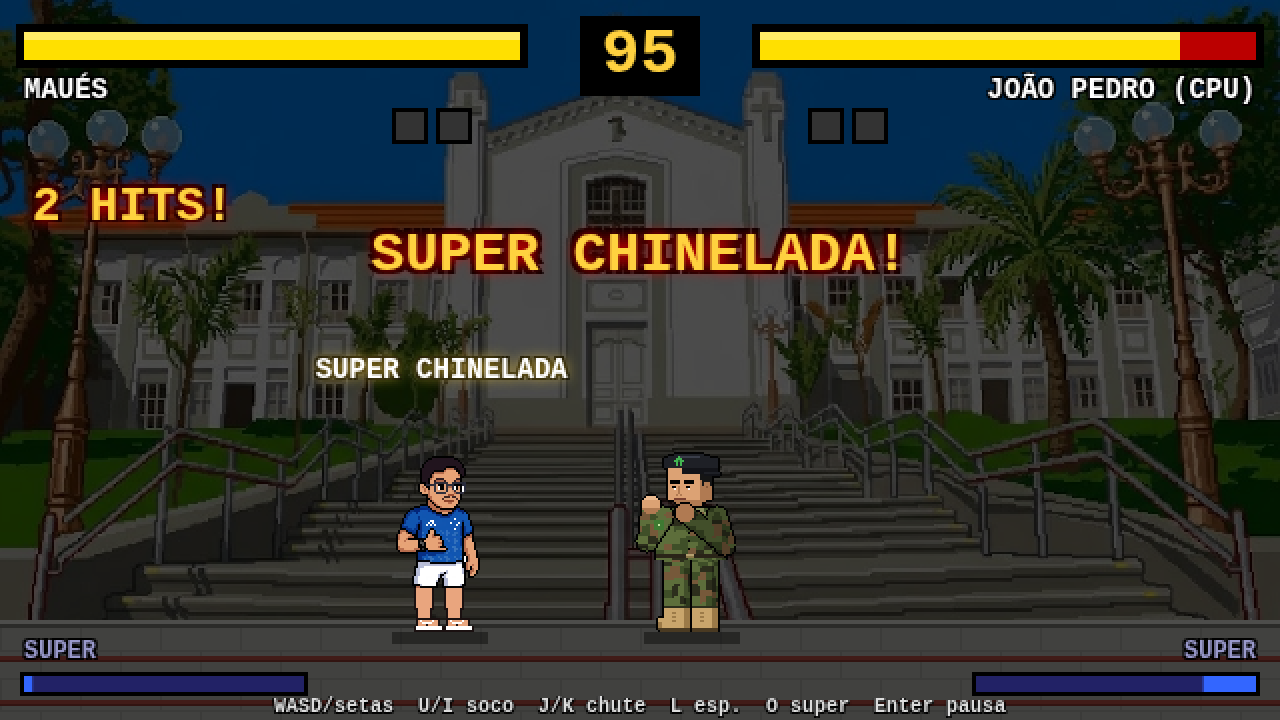
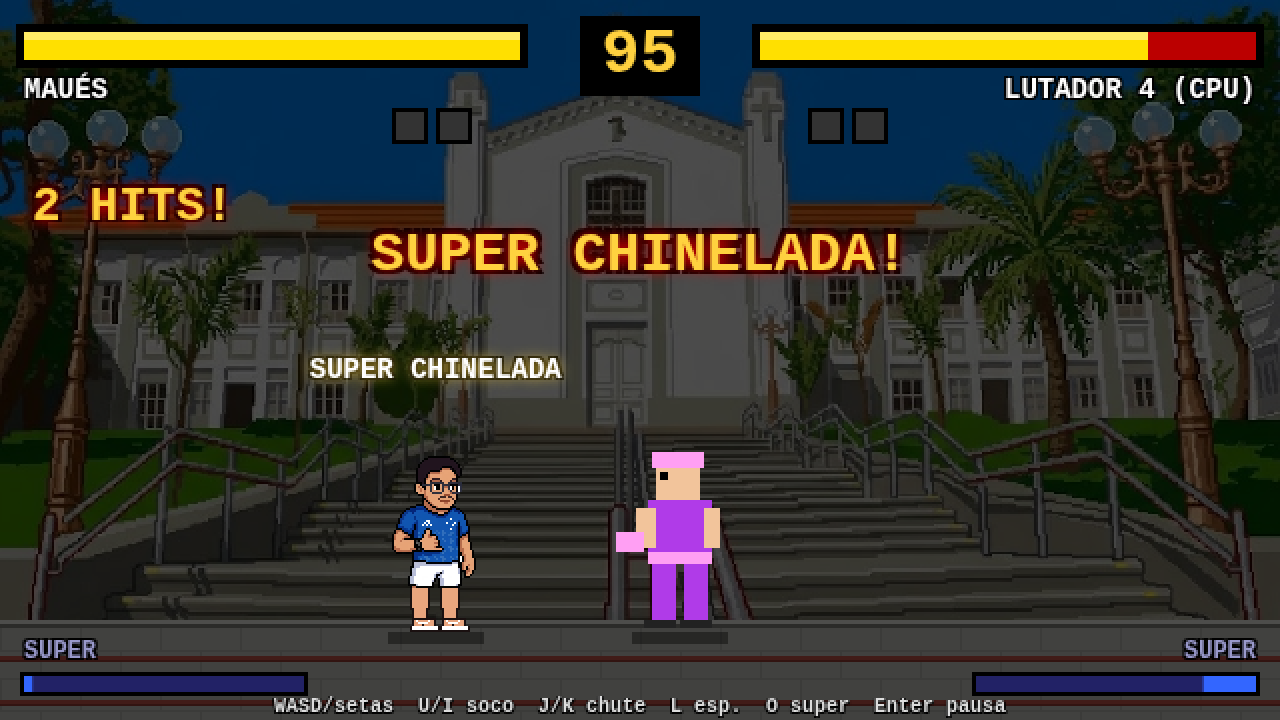
Publish build 202610211156 with cache-busted scripts.
Replace the game files from the latest zip, add the João Pedro fight and opponent-select screenshots, and stamp script URLs with v=202610211156. .nojekyll stays in place.

diff --git a/js/game.js b/js/game.js
@@ -39,7 +39,7 @@ function txt(s, x, y, size = 8, col = "#fff", align = "center", glow, outline = 
 }
 function bigTxt(s, y, size, c1, c2) { const fl = game.frame % 8 < 4; txt(s, W / 2, y, size, fl ? c1 : c2, "center", c2, 2); }
 // ---------- cenário ----------
-const IMG = {}; const img = src => IMG[src] || (IMG[src] = Object.assign(new Image(), { src }));
+const IMG = {}; const img = src => IMG[src] || (IMG[src] = Object.assign(new Image(), { src: src + "?v=" + (window.BUILD || 1) }));
 STAGES.forEach(s => { if (s.image) img(s.image); if (s.thumb) img(s.thumb); });
 function drawStage(t) {
   const st = game.stage; if (st && st.image) { const im = img(st.image); if (im.complete && im.naturalWidth) { g.drawImage(im, 0, 0, W, H); return; } }
@@ -49,7 +49,7 @@ function drawStage(t) {
 const PORTRAITS = CHARACTERS.map(c => new Fighter(c, 0, 1, null));
 function portrait(i, x, y, sc = 1, pose = "idle", flip = 1, dark) {
   const f = PORTRAITS[i]; f.x = 0; f.y = 0; f.facing = flip; f.state = "idle"; f.anim = game.frame; f.flash = 0; f.input = {}; f.inFight = false; const op = f.pose; f.pose = () => pose;
-  g.save(); g.translate(x, y); g.scale(sc, sc); if (dark) g.filter = "brightness(0)"; f.draw(g); g.restore(); f.pose = op;
+  g.save(); try { g.translate(x, y); g.scale(sc, sc); if (dark) g.filter = "brightness(0)"; f.draw(g); } catch (e) { console.error("retrato", e); } finally { g.restore(); f.pose = op; }
 }
 function drawCommands(x, y, lh = 8, size = 6, cols = 2) {
   const per = Math.ceil(COMMANDS.length / cols);
@@ -72,27 +72,31 @@ function title() {
     if (Math.floor(t / 15) % 2) txt("APERTE START", W / 2, 124, 12, "#ffd23f");
     if (P("ok")) { game.coin = 2; game.menuSel = 0; Audio8.menu(); }
   } else {
-    const items = ["ARCADE", "VERSUS (2 JOGADORES)", "DIFICULDADE: ◀ " + DIFFS[game.diff].n + " ▶", "COMANDOS"];
-    items.forEach((s, i) => txt((i === game.menuSel ? "▶ " : "  ") + s, W / 2, 114 + i * 12, 8, i === game.menuSel ? "#ffd23f" : "#bbb"));
-    if (P("up")) { game.menuSel = (game.menuSel + 3) % 4; Audio8.menu(); }
-    if (P("down")) { game.menuSel = (game.menuSel + 1) % 4; Audio8.menu(); }
-    if (game.menuSel === 2 && (P("left") || P("right"))) { game.diff = (game.diff + (P("left") ? 2 : 1)) % 3; Audio8.menu(); }
+    const items = ["ARCADE", "LUTA LIVRE (VS CPU)", "VERSUS (2 JOGADORES)", "DIFICULDADE: ◀ " + DIFFS[game.diff].n + " ▶", "COMANDOS"];
+    items.forEach((s, i) => txt((i === game.menuSel ? "▶ " : "  ") + s, W / 2, 110 + i * 11, 8, i === game.menuSel ? "#ffd23f" : "#bbb"));
+    if (P("up")) { game.menuSel = (game.menuSel + 4) % 5; Audio8.menu(); }
+    if (P("down")) { game.menuSel = (game.menuSel + 1) % 5; Audio8.menu(); }
+    if (game.menuSel === 3 && (P("left") || P("right"))) { game.diff = (game.diff + (P("left") ? 2 : 1)) % 3; Audio8.menu(); }
     if (P("ok")) { Audio8.menu();
-      if (game.menuSel === 0 || game.menuSel === 1) { game.mode = game.menuSel ? "versus" : "arcade"; game.ready = [false, false]; game.screen = "select"; if (game.sel[0] >= CHARACTERS.length) game.sel[0] = 0; }
-      if (game.menuSel === 2) game.diff = (game.diff + 1) % 3;
-      if (game.menuSel === 3) game.showCmds = true; }
+      if (game.menuSel <= 2) { game.mode = ["arcade", "free", "versus"][game.menuSel]; game.ready = [false, false]; game.ladderPos = 0; game.screen = "select"; game.sel = [0, 1]; }
+      if (game.menuSel === 3) game.diff = (game.diff + 1) % 3;
+      if (game.menuSel === 4) game.showCmds = true; }
     if (P("back")) game.coin = 1;
   }
   txt("CRÉDITO " + Math.min(1, game.coin), W - 6, H - 6, 7, "#aaa", "right");
   txt("M = som", 6, H - 6, 7, "#666", "left");
 }
 // ---------- SELEÇÃO ----------
-function selectable(i) { return game.mode === "versus" || !CHARACTERS[i].boss; }
+const RANDOM = CHARACTERS.length; // célula "ALEATÓRIO" (Luta Livre)
+function selectable(i, pi = 0) { if (i === RANDOM) return game.mode === "free" && pi === 1; return game.mode !== "arcade" || !CHARACTERS[i].boss; }
 function select() {
   g.fillStyle = "#0c0c24"; g.fillRect(0, 0, W, H);
   for (let y = 0; y < H; y += 4) { g.fillStyle = "#11113a"; g.fillRect(0, y, W, 1); }
-  txt("ESCOLHA SEU LUTADOR", W / 2, 9, 10, "#ffd23f", "center", "#f80");
-  const n = CHARACTERS.length, cw = 52, gap = 6, x0 = (W - (n * cw + (n - 1) * gap)) / 2, y0 = 18, ch = 56;
+  const free = game.mode === "free", cpuPick = free && game.ready[0];
+  txt(cpuPick ? "ESCOLHA O ADVERSÁRIO" : "ESCOLHA SEU LUTADOR", W / 2, 9, 10, cpuPick ? "#3b9bff" : "#ffd23f", "center", "#f80");
+  const n = CHARACTERS.length + (free ? 1 : 0), gap = 6, cw = Math.min(52, Math.floor((W - 12 - (n - 1) * gap) / n)), x0 = (W - (n * cw + (n - 1) * gap)) / 2, y0 = 18, ch = 56;
+  if (free) { const x = x0 + RANDOM * (cw + gap); g.fillStyle = "#000"; g.fillRect(x, y0, cw, ch); g.fillStyle = "#333a"; g.fillRect(x + 1, y0 + 1, cw - 2, ch - 2);
+    txt("?", x + cw / 2, y0 + ch / 2, 24, game.frame % 20 < 10 ? "#ffd23f" : "#fff"); txt("ALEATÓRIO", x + cw / 2, y0 + ch + 6, 6, cpuPick ? "#fff" : "#666"); }
   CHARACTERS.forEach((c, i) => {
     const x = x0 + i * (cw + gap), lock = !selectable(i);
     g.fillStyle = "#000"; g.fillRect(x, y0, cw, ch); g.fillStyle = c.color + "55"; g.fillRect(x + 1, y0 + 1, cw - 2, ch - 2);
@@ -102,27 +106,32 @@ function select() {
   });
   const cur = (pi, col) => { const x = x0 + game.sel[pi] * (cw + gap), blink = game.ready[pi] || game.frame % 16 < 11, both = game.mode === "versus" && game.sel[0] === game.sel[1];
     if (blink) { g.strokeStyle = col; g.lineWidth = 2; const o = both && pi ? 3 : 0; g.strokeRect(x - 1 + o, y0 - 1 + o, cw + 2 - o * 2, ch + 2 - o * 2); }
-    txt(pi ? "2P" : "1P", x + (pi ? cw - 8 : 8), y0 + 5, 7, col); };
-  cur(0, "#ff3b3b"); if (game.mode === "versus") cur(1, "#3b9bff");
-  const info = (pi, x, al) => { const c = CHARACTERS[game.sel[pi]];
+    txt(pi ? (game.mode === "free" ? "CPU" : "2P") : "1P", x + (pi ? cw - 9 : 8), y0 + 5, 7, col); };
+  cur(0, "#ff3b3b"); if (game.mode === "versus" || cpuPick) cur(1, "#3b9bff");
+  const info = (pi, x, al) => { if (game.sel[pi] === RANDOM) { txt("ALEATÓRIO", x, 92, 9, "#3b9bff", al); txt("sorteado na hora da luta", x, 104, 6, "#ccc", al); return; } const c = CHARACTERS[game.sel[pi]];
     txt(c.name, x, 92, 9, pi ? "#3b9bff" : "#ff3b3b", al);
     [["VEL", c.stats.speed], ["FOR", c.stats.power], ["VID", c.stats.health]].forEach(([l, v], j) => { const bx = al === "left" ? x + 20 : x - 70, by = 101 + j * 7;
       txt(l, al === "left" ? x : x - 74, by, 6, "#ccc", al === "left" ? "left" : "right"); g.fillStyle = "#333"; g.fillRect(bx, by - 2, 50, 4); g.fillStyle = c.accent; g.fillRect(bx, by - 2, v * 5, 4); });
     if (game.ready[pi]) txt("PRONTO!", x, 128, 7, "#7f7", al); };
   info(0, 10, "left");
-  if (game.mode === "versus") info(1, W - 10, "right");
+  if (game.mode === "versus" || cpuPick) info(1, W - 10, "right");
+  else if (free) { txt("LUTA LIVRE: depois escolha", W - 10, 96, 6, "#ccc", "right"); txt("O ADVERSÁRIO (CPU)", W - 10, 106, 8, "#3b9bff", "right"); txt("Dificuldade: " + DIFFS[game.diff].n, W - 10, 118, 6, "#8cf", "right"); }
   else { txt("ARCADE: vença todos e enfrente o", W - 10, 96, 6, "#ccc", "right"); txt("CHEFÃO!", W - 10, 106, 8, "#e83b3b", "right"); txt("Dificuldade: " + DIFFS[game.diff].n, W - 10, 118, 6, "#8cf", "right"); }
   g.fillStyle = "#0008"; g.fillRect(4, 134, W - 8, 44); drawCommands(10, 139, 8.4, 6, 2);
-  const move = (pi, d) => { if (game.ready[pi]) return; let s = game.sel[pi]; do { s = (s + d + n) % n; } while (!selectable(s)); game.sel[pi] = s; Audio8.menu(); };
+  const move = (pi, d) => { if (game.ready[pi]) return; let s = game.sel[pi]; do { s = (s + d + n) % n; } while (!selectable(s, pi)); game.sel[pi] = s; Audio8.menu(); };
   if (game.mode === "versus") {
     if (Input.any(["KeyA"])) move(0, -1); if (Input.any(["KeyD"])) move(0, 1);
     if (Input.any(["ArrowLeft"])) move(1, -1); if (Input.any(["ArrowRight"])) move(1, 1);
     if (Input.any(["Enter", "KeyU"]) && !game.ready[0]) { game.ready[0] = true; Audio8.coin(); }
     if (Input.any(["NumpadEnter", "Numpad4", "Comma"]) && !game.ready[1]) { game.ready[1] = true; Audio8.coin(); }
     if (game.ready[0] && game.ready[1]) { game.readyT = (game.readyT || 0) + 1; if (game.readyT > 30) { game.readyT = 0; game.screen = "stageSelect"; } }
+  } else if (cpuPick) {
+    if (P("left")) move(1, -1); if (P("right")) move(1, 1);
+    if (P("ok")) { Audio8.coin(); if (game.sel[1] === RANDOM) { game.randomCPU = true; } else game.randomCPU = false; game.ready[1] = true; game.screen = "stageSelect"; }
+    if (P("back")) { game.ready[0] = false; Audio8.menu(); return; }
   } else {
     if (P("left")) move(0, -1); if (P("right")) move(0, 1);
-    if (P("ok")) { game.ready[0] = true; Audio8.coin(); game.screen = "stageSelect"; }
+    if (P("ok")) { game.ready[0] = true; Audio8.coin(); if (free) { if (!selectable(game.sel[1], 1) || game.sel[1] === game.sel[0]) game.sel[1] = (game.sel[0] + 1) % CHARACTERS.length; } else game.screen = "stageSelect"; }
   }
   if (P("back")) { game.screen = "title"; game.ready = [false, false]; }
 }
@@ -141,10 +150,11 @@ function stageSelect() {
   txt("◀ ▶ escolher   ENTER confirmar   ESC voltar", W / 2, 164, 8, "#8cf");
   const mv = d => { game.stageSel = (game.stageSel + d + n) % n; Audio8.menu(); };
   if (P("left")) mv(-1); if (P("right")) mv(1);
-  if (P("back")) { game.screen = "select"; game.ready = [false, false]; }
+  if (P("back")) { game.screen = "select"; game.ready = [false, false]; if (game.randomCPU) game.sel[1] = RANDOM; }
   if (P("ok") && !s.locked) { Audio8.menu();
     if (game.mode === "arcade") { const others = CHARACTERS.map((c, i) => i).filter(i => i !== game.sel[0] && !CHARACTERS[i].boss).sort(() => Math.random() - 0.5);
       game.ladder = others.concat(CHARACTERS.findIndex(c => c.boss)); game.ladderPos = 0; game.sel[1] = game.ladder[0]; }
+    if (game.mode === "free" && game.randomCPU) game.sel[1] = Math.floor(Math.random() * CHARACTERS.length);
     toVS(); }
 }
 // ---------- VS ----------
@@ -159,6 +169,7 @@ function vs() {
   portrait(game.sel[0], -60 + sl * 140, 150, 2.4, "idle", 1); portrait(game.sel[1], W + 60 - sl * 140, 150, 2.4, "idle", -1);
   txt(CHARACTERS[game.sel[0]].name.toUpperCase(), 10, 166, 12, "#fff", "left"); txt(CHARACTERS[game.sel[1]].name.toUpperCase(), W - 10, 166, 12, "#fff", "right");
   if (t > 20) txt("VS", W / 2, 80, 34 + Math.max(0, 10 - (t - 20)) * 3, game.frame % 6 < 3 ? "#ffd23f" : "#fff", "center", "#f80", 2);
+  if (game.mode === "free") txt("LUTA LIVRE", W / 2, 14, 9, "#fff");
   if (game.mode === "arcade") { const boss = CHARACTERS[game.sel[1]].boss; txt(boss ? "LUTA FINAL: CHEFÃO!" : `LUTA ${game.ladderPos + 1} DE ${game.ladder.length}`, W / 2, 14, 9, boss ? "#f44" : "#fff"); }
   if (t > 160 || (t > 30 && P("ok"))) game.startMatch();
 }
@@ -257,7 +268,7 @@ function pauseMenu() {
   if (Input.any(["Enter", "KeyP"])) { game.paused = false; Audio8.menu(); }
   if (P("back")) { game.paused = false; Audio8.stopMusic(); game.screen = "title"; game.coin = 1; }
 }
-function endMatch(w) { game.matchWinner = w; game.screen = "quote"; game.qT = 0; Audio8.stopMusic(); if (game.mode === "versus" || w === 0) Audio8.win(); }
+function endMatch(w) { game.matchWinner = w; game.screen = "quote"; game.qT = 0; Audio8.stopMusic(); if (game.mode === "versus" || w === 0) Audio8.win(); else Audio8.ko(); }
 function quote() {
   const t = ++game.qT, w = game.matchWinner, c = CHARACTERS[game.sel[w]];
   g.fillStyle = "#000"; g.fillRect(0, 0, W, H); g.fillStyle = c.color; g.fillRect(0, 20, 130, 140);
@@ -269,7 +280,7 @@ function quote() {
   words.forEach(wd => { if ((line + wd).length > 26) { txt(line, 146, ly, 7, "#fff", "left", null, 0); line = ""; ly += 11; } line += wd + " "; }); txt(line, 146, ly, 7, "#fff", "left", null, 0);
   if (t > 60 && game.frame % 30 < 20) txt("ENTER", 225, 150, 8, "#8cf");
   if (t > 40 && P("ok") || t > 420) {
-    if (game.mode === "versus") { game.screen = "select"; game.ready = [false, false]; }
+    if (game.mode !== "arcade") { game.screen = "select"; game.ready = [false, false]; if (game.mode === "free" && game.randomCPU) game.sel[1] = RANDOM; }
     else if (w === 0) { if (game.ladderPos >= game.ladder.length - 1) { game.screen = "ending"; game.eT = 0; Audio8.win(); } else { game.ladderPos++; game.sel[1] = game.ladder[game.ladderPos]; toVS(); } }
     else { game.screen = "continue"; game.cT = 600; }
   }
@@ -302,7 +313,8 @@ function loop(ts) {
   acc += Math.min(100, ts - (last || ts)); last = ts;
   while (acc >= 1000 / 60) { acc -= 1000 / 60; game.frame++;
     if (Input.wasPressed("KeyM")) Audio8.toggleMute();
-    g.setTransform(SCALE, 0, 0, SCALE, 0, 0); g.imageSmoothingEnabled = false; g.filter = "none"; SCREENS[game.screen]();
+    g.setTransform(SCALE, 0, 0, SCALE, 0, 0); g.imageSmoothingEnabled = false; g.filter = "none";
+    try { SCREENS[game.screen](); } catch (e) { console.error(e); if (!game.errShown) { game.errShown = 1; } }
     if (Audio8.muted) txt("MUDO", W - 4, H - 24, 6, "#f66", "right");
     Input.endFrame(); }
   requestAnimationFrame(loop);

diff --git a/js/fighter.js b/js/fighter.js
@@ -27,7 +27,7 @@ class Fighter {
     this.maxHp = 60 + cfg.stats.health * 8; this.hp = this.maxHp; this.spd = 0.7 + cfg.stats.speed * 0.13; this.pow = 0.6 + cfg.stats.power * 0.09;
     this.state = "idle"; this.t = 0; this.m = null; this.mf = 0; this.meter = 0; this.invuln = 0; this.flash = 0; this.anim = 0;
     this.buffer = null; this.input = {}; this.comboTaken = 0; this.comboShow = null; this.juggle = 0; this.popup = null; this.inFight = false;
-    this.img = null; if (cfg.sprite) { const c = Fighter.cache[cfg.sprite] || (Fighter.cache[cfg.sprite] = Object.assign(new Image(), { src: cfg.sprite })); if (c.complete && c.naturalWidth) this.img = c; else c.addEventListener("load", () => this.img = c); }
+    this.img = null; if (cfg.sprite) { const c = Fighter.cache[cfg.sprite] || (Fighter.cache[cfg.sprite] = Object.assign(new Image(), { src: cfg.sprite + "?v=" + (window.BUILD || 1) })); if (c.complete && c.naturalWidth) this.img = c; else c.addEventListener("load", () => this.img = c); }
   }
   get grounded() { return this.y >= GROUND; }
   get crouching() { return this.state === "crouch" || (this.m && this.m.crouch) || (FREE.includes(this.state) && this.input.down) || (this.state === "blockstun" && this.input.down); }
@@ -228,7 +228,7 @@ class Fighter {
     }
     if (pose === "upper" && this.anim % 4 < 2) { g.fillStyle = ac + "66"; g.fillRect(-14, -60, 6, 50); }
   }
-  static load(src) { const c = Fighter.cache[src] || (Fighter.cache[src] = Object.assign(new Image(), { src })); return c.complete && c.naturalWidth ? c : null; }
+  static load(src) { const c = Fighter.cache[src] || (Fighter.cache[src] = Object.assign(new Image(), { src: src + "?v=" + (window.BUILD || 1) })); return c.complete && c.naturalWidth ? c : null; }
   // Lutador por partes (pixels da arte original): tronco por pose + pernas que giram no quadril
   drawParts(g, x, y, f, pose) {
     const b = this.cfg.parts, I = n => Fighter.load(b + n + ".png");

diff --git a/index.html b/index.html
@@ -1,4 +1,4 @@
-<!DOCTYPE html><html lang="pt-BR"><head><meta charset="utf-8"><meta name="viewport" content="width=device-width,initial-scale=1,user-scalable=no">
+<!DOCTYPE html><html lang="pt-BR"><head><meta charset="utf-8"><meta http-equiv="Cache-Control" content="no-cache"><meta name="viewport" content="width=device-width,initial-scale=1,user-scalable=no">
 <link rel="icon" href="data:,"><title>GUERRA no P.C</title>
 <style>
 html,body{margin:0;background:#000;height:100%;overflow:hidden;touch-action:none}
@@ -12,6 +12,6 @@ canvas{image-rendering:pixelated;image-rendering:crisp-edges;background:#000}
 <div id="wrap"><canvas id="c" width="640" height="360"></canvas></div>
 <div id="touch"><div><span class="tb" data-k="ArrowLeft">◀</span><span class="tb" data-k="ArrowUp">▲</span><span class="tb" data-k="ArrowDown">▼</span><span class="tb" data-k="ArrowRight">▶</span></div>
 <div><span class="tb" data-k="KeyU">SF</span><span class="tb" data-k="KeyI">SF+</span><span class="tb" data-k="KeyJ">CF</span><span class="tb" data-k="KeyK">CF+</span><span class="tb" data-k="KeyL">ESP</span><span class="tb" data-k="KeyO">SUP</span><span class="tb" data-k="Enter">OK</span></div></div>
-<script src="js/characters.js"></script><script src="js/stages.js"></script><script src="js/audio.js"></script><script src="js/input.js"></script>
-<script src="js/fighter.js"></script><script src="js/ai.js"></script><script src="js/game.js"></script>
+<script>window.BUILD="202610211156";</script><script src="js/characters.js?v=202610211156"></script><script src="js/stages.js?v=202610211156"></script><script src="js/audio.js?v=202610211156"></script><script src="js/input.js?v=202610211156"></script>
+<script src="js/fighter.js?v=202610211156"></script><script src="js/ai.js?v=202610211156"></script><script src="js/game.js?v=202610211156"></script>
 </body></html>

diff --git a/js/characters.js b/js/characters.js
@@ -10,7 +10,7 @@ const CHARACTERS = [
     sprite: "assets/maues.png", spriteLegs: true, skin: "#e9a57e", legX: [9, 24], punchSprite: "assets/maues_punch.png", projectile: "chinelo",
     specials: { fireball: "CHINELADA", dp: "GANCHO DO MAUÉS", spin: "FURACÃO DE CHINELO", super: "SUPER CHINELADA" },
     quote: "Chinelo branco não perdoa ninguém!" },
-  { name: "João Pedro", color: "#4a5530", accent: "#3fa34d", stats: { speed: 4, power: 8, health: 9 }, sprite: null, parts: "assets/joao/", partsMeta: { ox: -22, legX: [7, 21] }, projectile: "granada",
+  { name: "João Pedro", color: "#4a5530", accent: "#3fa34d", stats: { speed: 4, power: 8, health: 9 }, sprite: null, parts: "assets/joao/", partsMeta: { ox: -13, legX: [1, 12] }, projectile: "granada",
     specials: { fireball: "GRANADA", dp: "GANCHO DE COMANDO", spin: "RAJADA DE COTURNO", super: "BOMBARDEIO TÁTICO" },
     quote: "Missão cumprida. Próximo da fila!" },
   { name: "Lutador 3", color: "#3bd16f", accent: "#1a1a1a", stats: { speed: 4, power: 9, health: 8 }, sprite: null,

diff --git a/README.md b/README.md
@@ -60,3 +60,12 @@ Campos de cada lutador: `name`, `color`/`accent`, `stats` (1-10), `specials` (no
 - `js/ai.js` – CPU (anti-aéreo, defesa alta/baixa, combos, especiais, super; fica mais forte a cada luta do Arcade)
 - `js/audio.js` – sons chiptune, "voz" sintética do locutor (ROUND, FIGHT, K.O., PERFECT) e música — tudo gerado por WebAudio
 - `js/game.js` – telas (título, seleção, cenário, VS, luta, pausa, frase de vitória, continue, final), HUD e loop
+
+## Luta Livre (vs CPU)
+No menu, escolha **LUTA LIVRE (VS CPU)**. Primeiro escolha seu lutador, depois **ESCOLHA O ADVERSÁRIO** (cursor "CPU") — inclusive **ALEATÓRIO**, sorteado na hora da luta. Depois da luta você volta à seleção. O modo Arcade continua igual.
+
+## João Pedro (sprite)
+Extraído na grade nativa da arte original (`assets/joao/`: guard, punch, upper, block, leg_l, leg_r, win). Pernas são peças separadas; a vitória usa a pose original de braços cruzados. Ajuste em `partsMeta` (`ox`, `legX`) no `js/characters.js`.
+
+## Cache / deploy
+Todos os scripts e imagens usam `?v=BUILD` (definido em `index.html`, `window.BUILD`). **Troque o valor de BUILD (e dos `?v=` nas tags script) a cada deploy**, senão navegadores podem misturar JS antigo do cache com JS novo.
